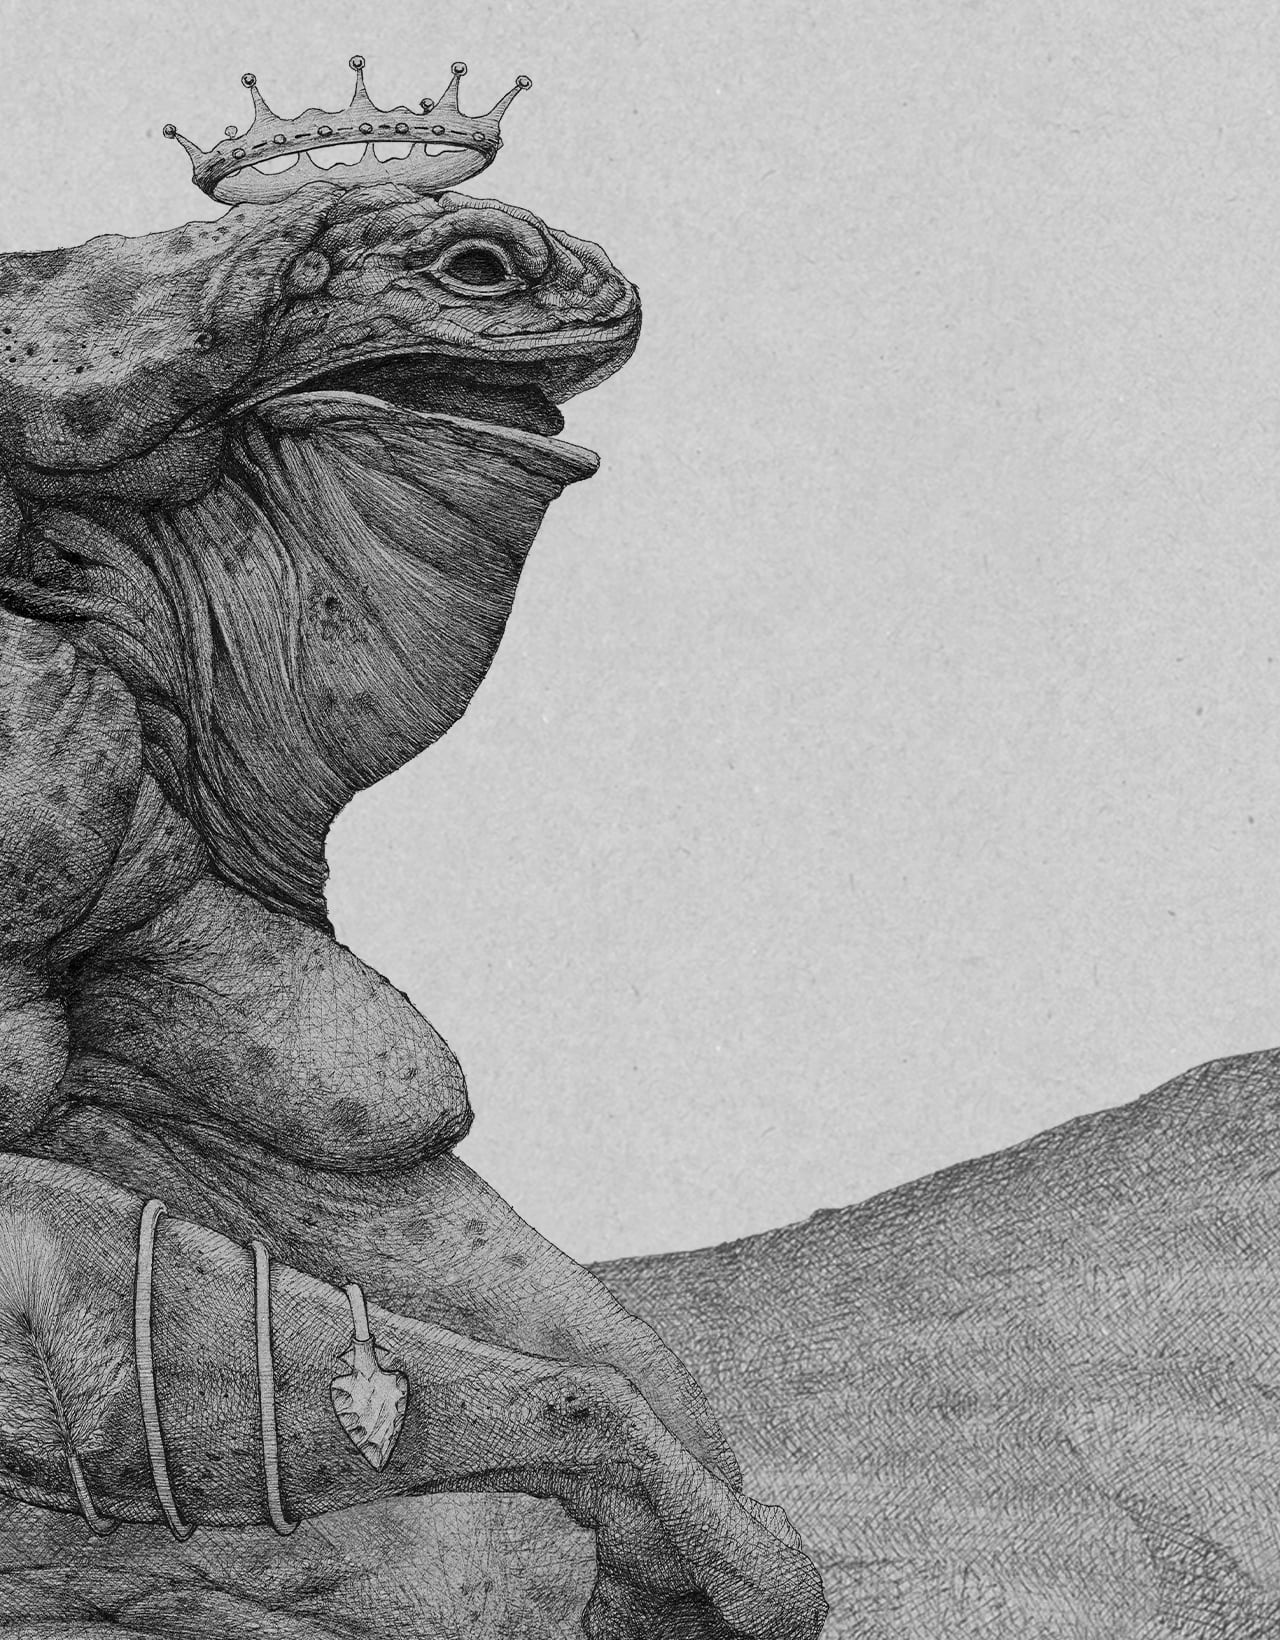
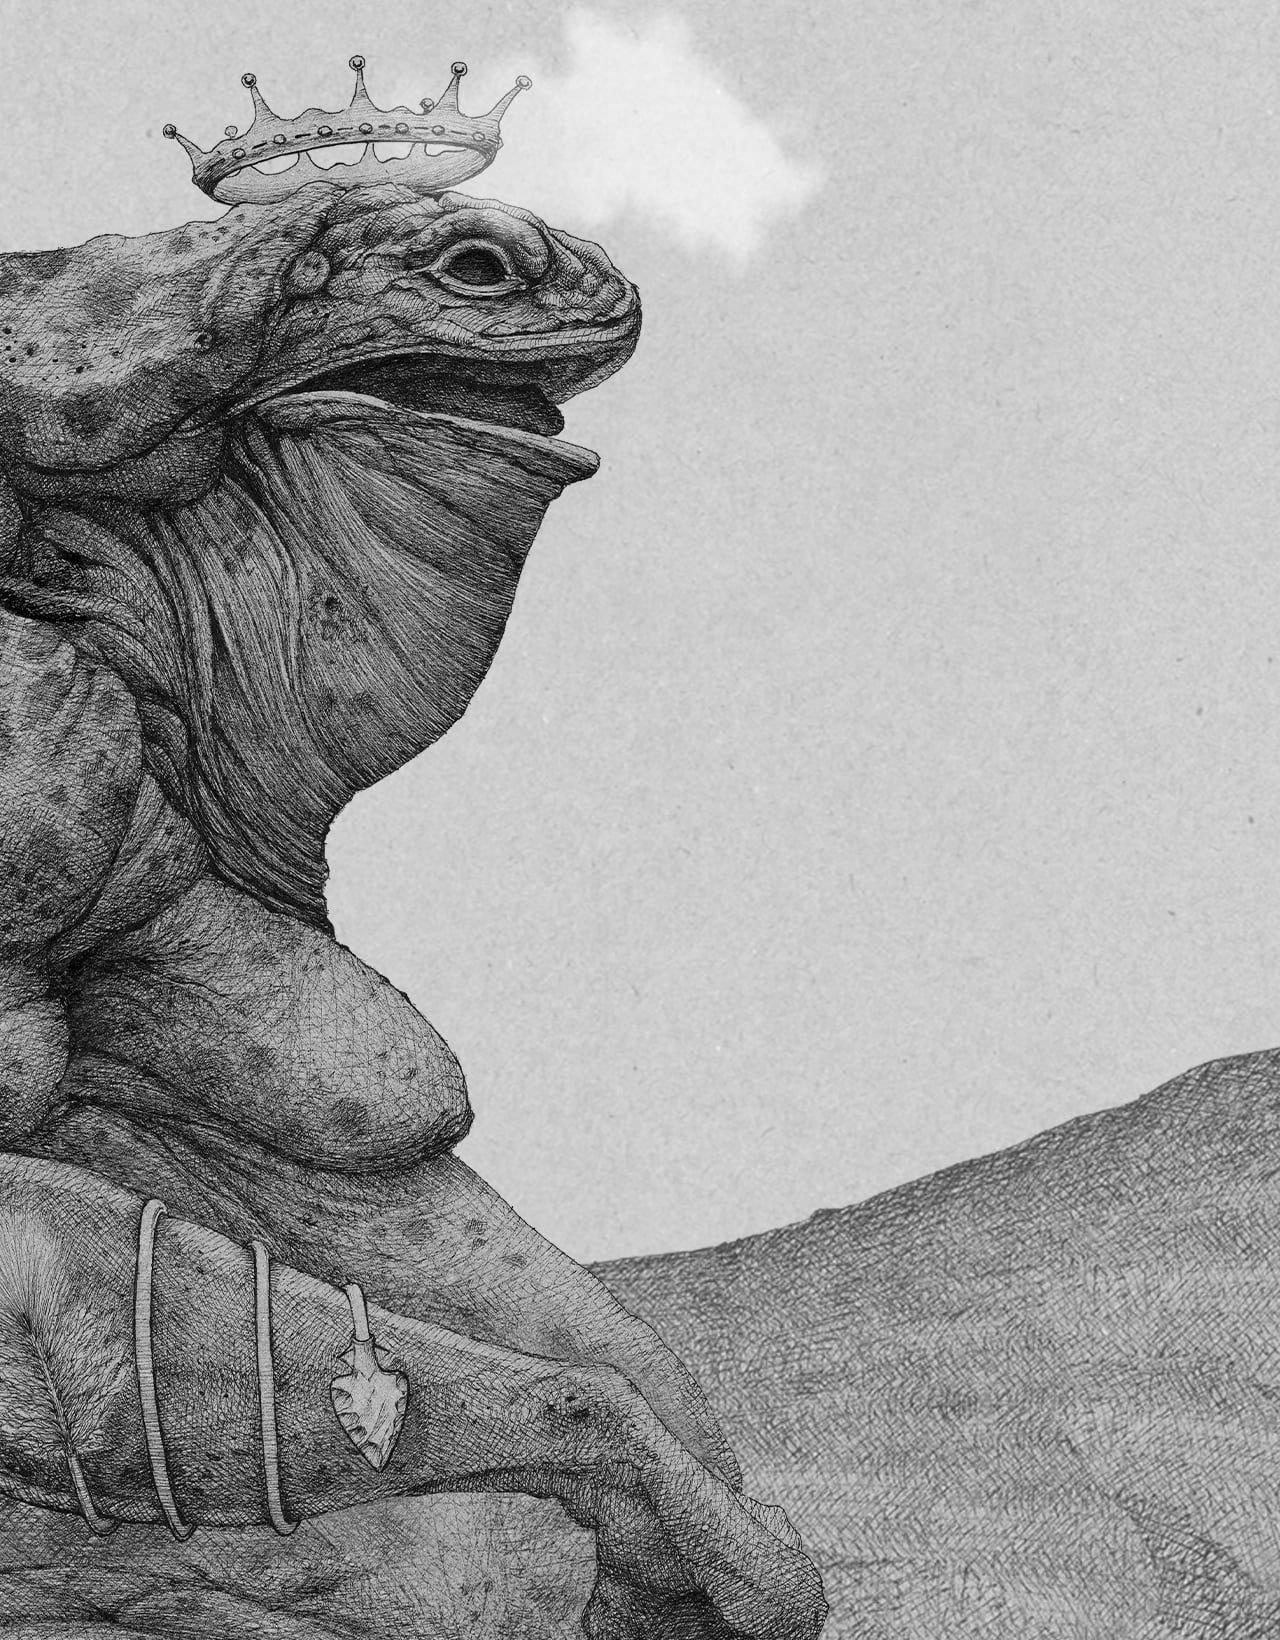
поменял картинки для мобилки, новые элементы для паралакса

Changed region(s): [[0.2812, 0.0, 0.625, 0.1555]]

diff --git a/src/index.html b/src/index.html
@@ -32,23 +32,21 @@
                         <source src="./assets/flower/flower.mp4" type='video/mp4; codecs="avc1.42E01E, mp4a.40.2"'>
                     </video>
 
-                    <div class="acc-bg-video-img">
-                        <img src="./assets/mobile/section_1/bg_mobile.jpg" alt="bg">
+                    <div class="acc-bg-flowers_mobile">
+                        <img src="./assets/mobile/section_1/flower_bg.jpg" alt="bg">
+                    </div>
+                    <div class="acc-bg-flowers_mobile  paralax_flower_bottom">
+                        <img  src="./assets/mobile/section_1/flower_02.png" alt="anypng">
                     </div>
 
-                    <div class="acc-flower-bg acc-flower-left">
-                        <img src="./assets/mobile/section_1/flower_bg_left.png" alt="bg">
-                    </div>
-                    <div class="acc-flower-bg acc-flower-right ">
-                        <img src="./assets/mobile/section_1/flower_bg_right.png" alt="bg">
-                    </div>
 
-                    <div class="acc-bg__img acc-bg-left acc-bg-top">
+                    <div class="acc-bg__img acc-bg-left acc-bg-top paralax_flower_top">
                         <img  src="./assets/flower/flower_1.png" alt="anypng">
                     </div>
-                    <div class="acc-bg__img acc-bg-left  acc-bg-bot ">
+                    <div class="acc-bg__img acc-bg-left acc-bg-bot acc-bg-flowers_desc_left ">
                         <img  src="./assets/flower/flower_2.png" alt="anypng">
                     </div>
+
                     <div class="acc-bg__img acc-bg-right acc-bg-bot ">
                         <img  src="./assets/flower/flower_3.png" alt="anypng">
                     </div>
@@ -83,6 +81,12 @@
                     </video>
                     <div class="acc-bg-video-img">
                         <img src="./assets/mobile/section_2/frog_bg.jpg" alt="bg">
+                    </div>
+                    <div class="acc-bg-cloud-mob acc-bg-cloud-mob-1">
+                        <img src="./assets/mobile/section_2/cloud_mobile_1.png" alt="cloud_mobile_1">
+                    </div>
+                    <div class="acc-bg-cloud-mob acc-bg-cloud-mob-2">
+                        <img src="./assets/mobile/section_2/cloud_mobile_2.png" alt="cloud_mobile_2">
                     </div>
 
                     <div class="acc-bg-bot acc-bg-right" >
@@ -139,6 +143,12 @@
 
                     <div class="acc-bg-bot acc-bg-bot_left acc-bg-bot-hand">
                         <img  src="./assets/hand.png" alt="anypng" >
+                    </div>
+                    <div class="acc-bg-monster_mobile acc-bg-monster_mobile-hand">
+                        <img  src="./assets/mobile/section_3/bg_hand.png" alt="bg_hand">
+                    </div>
+                    <div class="acc-bg-monster_mobile acc-bg-monster_mobile-cloud">
+                        <img  src="./assets/mobile/section_3/bg_cloud.png" alt="bg_hand">
                     </div>
 
                     <div class="acc-bg-bot acc-bg-bot_top acc-bg-bot_mid acc-bg-bot-cloud">

diff --git a/src/js/index.js b/src/js/index.js
@@ -6,6 +6,15 @@ let img_bg = document.querySelectorAll('.acc-bg-img img');
 let img_bot = document.querySelectorAll('.acc-bg-bot img');
 let video_bg = document.querySelectorAll('.video-scroll');
 
+let frogCloud_1 =  document.querySelector('.acc-bg-cloud-mob-1');
+let frogCloud_2 =  document.querySelector('.acc-bg-cloud-mob-2');
+
+let monsterHand =  document.querySelector('.acc-bg-monster_mobile-hand');
+let monsterCloud =  document.querySelector('.acc-bg-monster_mobile-cloud');
+
+let flowerTop =  document.querySelector('.paralax_flower_top');
+let flowerBot =  document.querySelector('.paralax_flower_bottom');
+
 function fullContentLoad(){
     new Promise((resolve)=>{
         resolve();
@@ -58,6 +67,30 @@ function fullContentLoad(){
                 el.setAttribute('data-scroll-speed', `${speedValVideo}`);
                 el.setAttribute('data-scroll-delay', `${delayValVideo}`);
             });
+
+            frogCloud_1.setAttribute('data-scroll','');
+            frogCloud_1.setAttribute('data-scroll-speed', `3`);
+            frogCloud_1.setAttribute('data-scroll-delay', `0.05`);
+
+            frogCloud_2.setAttribute('data-scroll','');
+            frogCloud_2.setAttribute('data-scroll-speed', `1`);
+            frogCloud_2.setAttribute('data-scroll-delay', `0.03`);
+
+            monsterHand.setAttribute('data-scroll','');
+            monsterHand.setAttribute('data-scroll-speed', `1`);
+            monsterHand.setAttribute('data-scroll-delay', `0.03`);
+
+            monsterCloud.setAttribute('data-scroll','');
+            monsterCloud.setAttribute('data-scroll-speed', `3`);
+            monsterCloud.setAttribute('data-scroll-delay', `0.07`);
+
+            flowerTop.setAttribute('data-scroll','');
+            flowerTop.setAttribute('data-scroll-speed', `2`);
+            flowerTop.setAttribute('data-scroll-delay', `0.07`);
+
+            flowerBot.setAttribute('data-scroll','');
+            flowerBot.setAttribute('data-scroll-speed', `1`);
+            flowerBot.setAttribute('data-scroll-delay', `0.1`);
 
             new LocomotiveScroll({
                 el: document.querySelector('[data-scroll-container]'),

diff --git a/src/styles/block.scss b/src/styles/block.scss
@@ -4,30 +4,7 @@
   &.active{
     opacity: 1;
   }
-  &-flower{
-    &-bg{
-      position: absolute;
-      height: 90%;
-      display: none;
-      @media (max-width: $mobile) {
-        display: block;
-      }
-      img{
-        width: 100%;
-        height: 100%;
-      }
-    }
-    &-left{
-      right: 0;
-      height: 80%;
-      bottom: -50px;
-      //width: auto;
-    }
-    &-right{
-      bottom: 0;
-      right: -40px;
-    }
-  }
+
   &-wrap {
     display: flex;
     flex-direction: column;
@@ -113,6 +90,44 @@
       align-items: flex-start;
       aspect-ratio: 8 / 10;
       overflow: visible;
+    }
+    &-flowers_desc{
+      &_left{
+        @media(max-width: $mobile){
+          display: none !important;
+        }
+      }
+    }
+    &-flowers_mobile{
+      position: absolute;
+      top: 0;
+      left: 0;
+      width: 100%;
+      height: 100%;
+      display: none;
+      @media(max-width: $mobile){
+        display: block;
+      }
+      img{
+        width: 100%;
+        height: 100%;
+        object-fit: cover;
+      }
+    }
+    &-cloud-mob{
+      display: none;
+      position: absolute;
+      top: 0;
+      left: 0;
+      width: 100%;
+      height: 100%;
+      @media (max-width: $mobile) {
+        display: block;
+      }
+      img{
+        width: 100%;
+        height: 100%;
+      }
     }
     &-video{
       width: 100%;
@@ -201,6 +216,15 @@
         width: 60%;
       }
     }
+    &-monster_mobile{
+      position: absolute;
+      bottom: 0;
+      width: 100%;
+      height: 100%;
+      img{
+        width: 100%;
+      }
+    }
     &-bot{
       position: absolute;
       bottom: -150px;
@@ -243,8 +267,7 @@
       &-hand{
         bottom: -250px;
         @media(max-width: $mobile){
-          bottom: -30px;
-          left: -30px;
+          display: none;
         }
         img{
           width: 60%;
@@ -283,6 +306,9 @@
         display: flex;
         justify-content: flex-end;
         align-items: flex-start;
+        @media(max-width: $mobile){
+          display: none;
+        }
         img{
           right: 0;
         }
